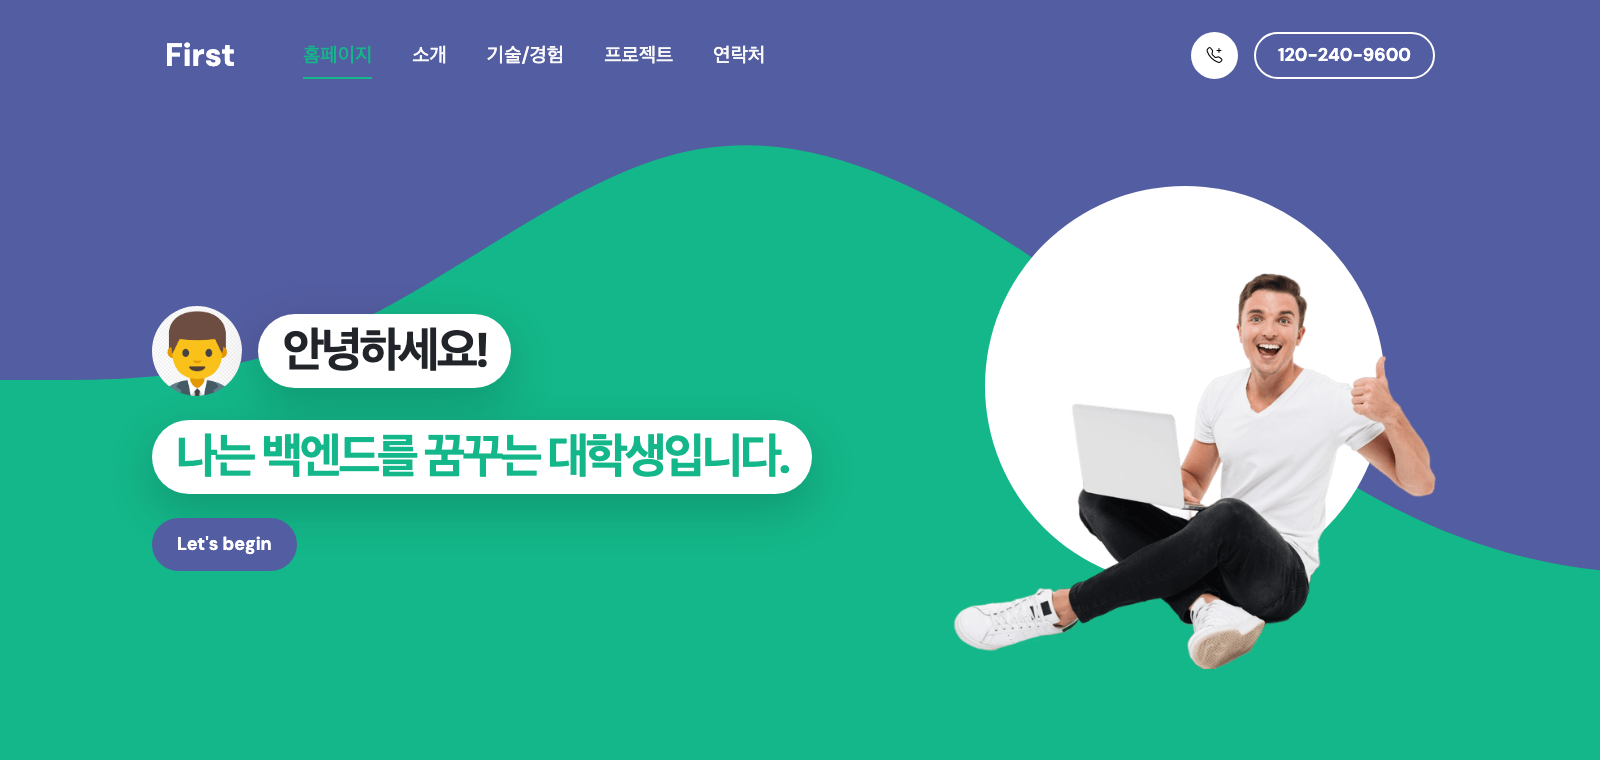
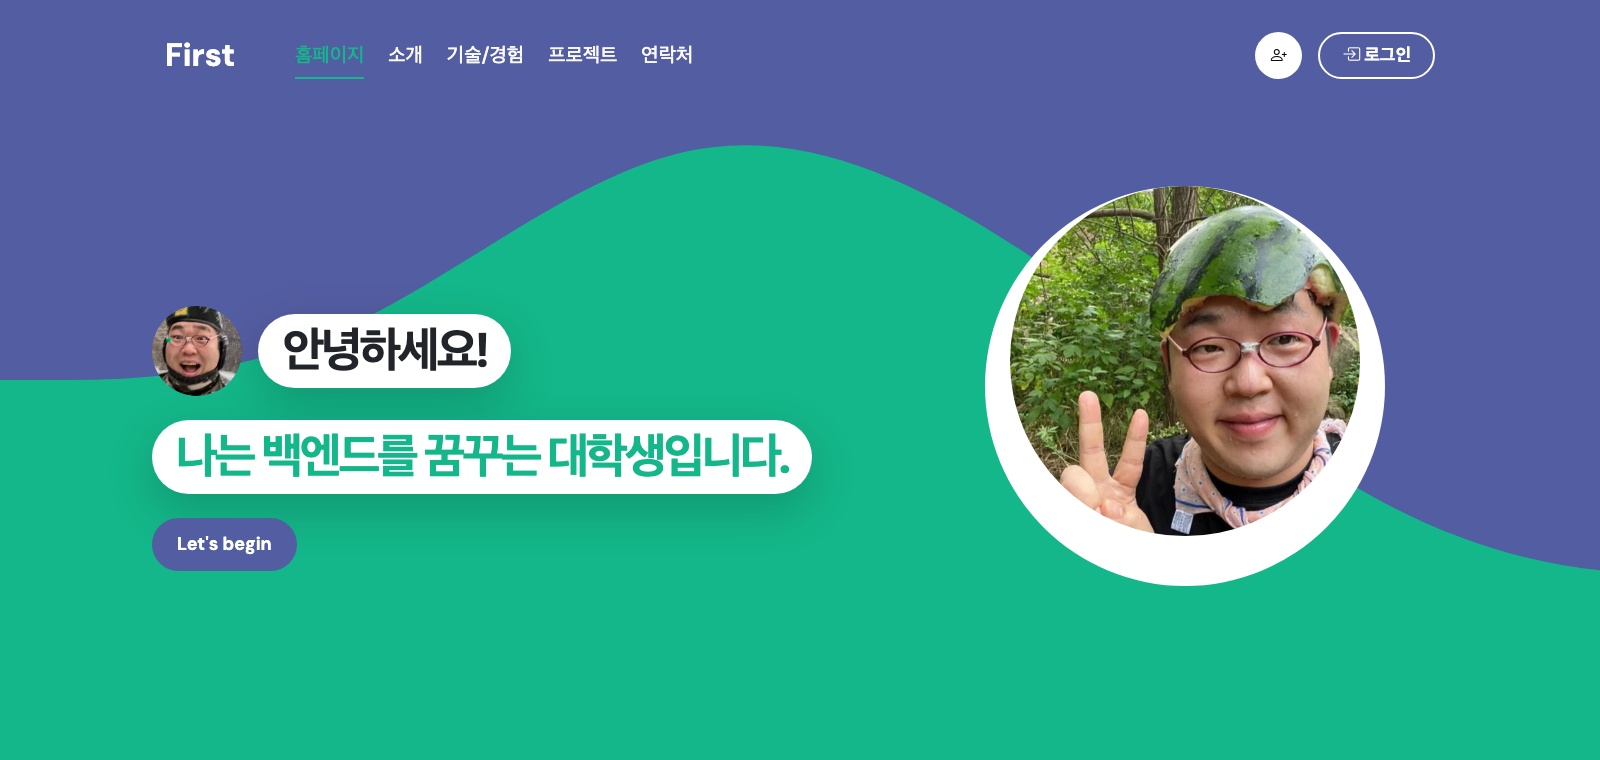
메인 화면 프로필 사진을 본인 사진으로 교체 및 README 이미지 갱신

diff --git a/src/main/resources/templates/index.html b/src/main/resources/templates/index.html
@@ -52,6 +52,15 @@ https://templatemo.com/tm-578-first-portfolio
                 .navbar-expand-lg .navbar-nav .nav-link { margin-left: 7px; margin-right: 7px; font-size: 15px; }
                 .navbar i.navbar-icon { display: none; }
             }
+            /* 본인 사진 적용 : 원본은 배경이 없는 컷아웃 이미지라 네모 사진은 흰 원에 맞춰 잘라준다 */
+            .hero-image {
+                width: 350px; min-width: 350px; height: 350px;
+                object-fit: cover; border-radius: 100%;
+                top: -50px; right: 0; left: 0; margin: auto;
+            }
+            @media (max-width: 991px) {
+                .hero-image { width: 280px; min-width: 280px; height: 280px; }
+            }
         </style>
     </head>
     
@@ -162,7 +171,7 @@ https://templatemo.com/tm-578-first-portfolio
                         <div class="col-lg-7 col-12">
                             <div class="hero-text">
                                 <div class="hero-title-wrap d-flex align-items-center mb-4">
-                                    <img th:src="@{/images/worker.png}" class="avatar-image avatar-image-large img-fluid" alt="">
+                                    <img th:src="@{/images/profile.jpg}" class="avatar-image avatar-image-large img-fluid" alt="">
 
                                     <h1 class="hero-title ms-3 mb-0">안녕하세요!</h1>
                                 </div>
@@ -174,7 +183,7 @@ https://templatemo.com/tm-578-first-portfolio
 
                         <div class="col-lg-5 col-12 position-relative">
                             <div class="hero-image-wrap"></div>
-                            <img th:src="@{/images/portrait-happy-excited-man-holding-laptop-computer.png}" class="hero-image img-fluid" alt="">
+                            <img th:src="@{/images/hero-profile.jpg}" class="hero-image img-fluid" alt="">
                         </div>
 
                     </div>

diff --git a/README.md b/README.md
@@ -727,19 +727,47 @@ src/main/resources/
 <h2 class="mb-4">나는 백엔드를 꿈꾸는 대학생입니다.</h2>
 ```
 
-**실행 결과 — http://localhost:8080/**
+**실행 결과 — http://localhost:8080/** (아래 ③ 의 사진 교체까지 반영한 화면)
 
 ![3주차 메인 화면](docs/images/week3-hero.png)
 
 ### ③ 본인 사진으로 교체하기
 
-- 원본 이미지 : `happy-bearded-young-man.jpg`
-- 준비된 사진이 없으면 **무료 사용 가능한 웹 샘플 이미지**를 검색해 다운로드하고 `profile.png` 로 이름을 변경한다
-- **`static/images` 폴더 안에 넣고** 아래처럼 참조한다
+템플릿 원본 사진 2장을 **내 사진**으로 바꿨다. 두 파일 모두 `static/images` 폴더에 넣는다.
+
+| 위치 | 템플릿 원본 | 내 사진 |
+| ---- | ----------- | ------- |
+| 작은 아바타 (안녕하세요! 옆) | `worker.png` | **`profile.jpg`** (600 × 600) |
+| 큰 메인 사진 (오른쪽 원형) | `portrait-happy-excited-man-holding-laptop-computer.png` | **`hero-profile.jpg`** (900 × 594) |
 
 ```html
-<img th:src="@{/images/profile.png}" class="avatar-image img-fluid" alt="" />
+<img th:src="@{/images/profile.jpg}" class="avatar-image avatar-image-large img-fluid" alt="" />
+<img th:src="@{/images/hero-profile.jpg}" class="hero-image img-fluid" alt="" />
 ```
+
+바꾸면서 두 가지를 손봤다.
+
+**① PNG 대신 JPEG 으로 저장했다.**
+사진을 PNG 로 넣으니 큰 사진이 **962K** 나 됐다. 3주차 과제(Lighthouse)에서 "최적화 안 된 이미지"를 지적해 놓고
+같은 실수를 반복할 수는 없으므로, 사진에 맞는 **JPEG(품질 80)** 으로 바꿔 **196K** 로 줄였다. (아바타는 65K)
+
+**② 네모 사진을 원형으로 잘랐다.**
+템플릿 원본은 **배경이 없는 컷아웃 이미지**라서 흰 원 위에 사람만 떠 있는 디자인이었다.
+배경이 있는 네모 사진을 그대로 넣으면 사각형 액자처럼 보여서, `<style>` 에 아래를 추가해 흰 원(350px)에 맞췄다.
+
+```css
+/* 본인 사진 적용 : 원본은 배경이 없는 컷아웃 이미지라 네모 사진은 흰 원에 맞춰 잘라준다 */
+.hero-image {
+    width: 350px; min-width: 350px; height: 350px;
+    object-fit: cover; border-radius: 100%;
+    top: -50px; right: 0; left: 0; margin: auto;
+}
+```
+
+| 속성 | 역할 |
+| ---- | ---- |
+| `object-fit: cover` | 비율을 유지한 채 영역을 꽉 채우고 넘치는 부분은 잘라낸다 |
+| `border-radius: 100%` | 정사각형을 원으로 만든다 |
 
 - 주의 : 원본 이미지 크기(가로·세로) 이상으로 준비할 것. 너무 작으면 확대 시 해상도가 떨어진다
 - 크기는 부트스트랩의 `img-fluid` 덕분에 **자동으로 적절하게 맞춰진다**
